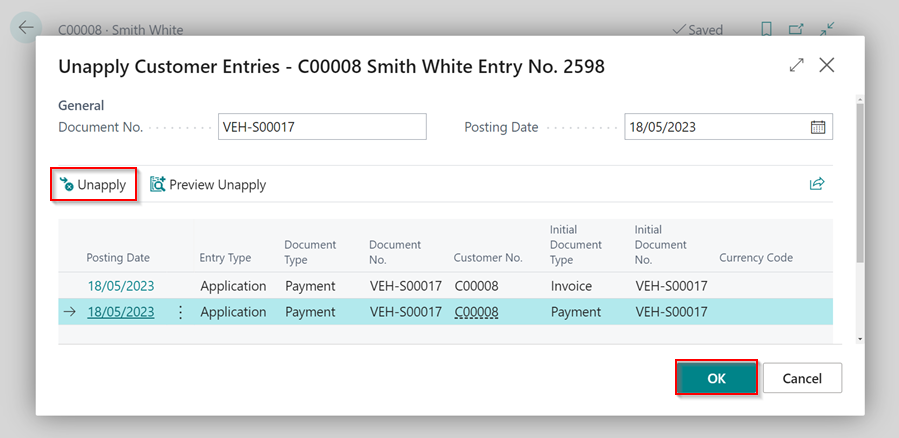
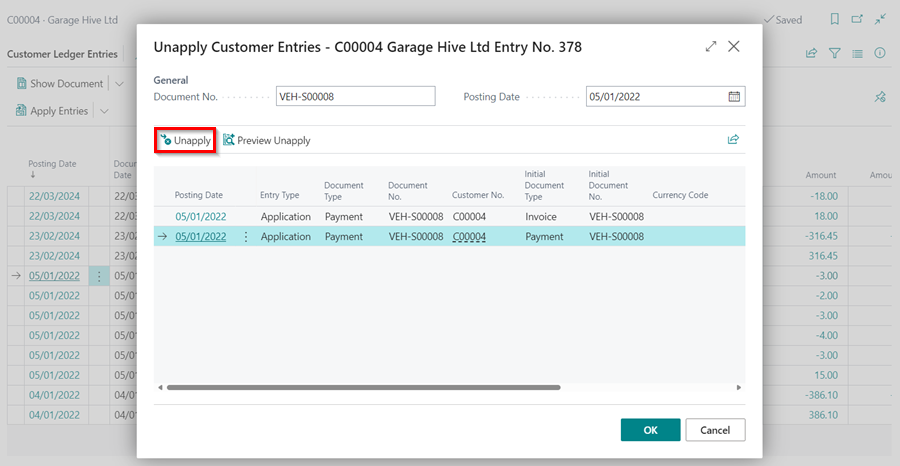
unapply and reverse entries

diff --git a/docs/garagehive-unapplying-and-reversing-transactions.md b/docs/garagehive-unapplying-and-reversing-transactions.md
@@ -10,7 +10,7 @@ You may have applied a payment to the wrong invoice, made a payment to the wrong
 1. [Un&#8211;applying transactions](#un-applying-transactions)
 2. [Reversing transactions](#reversing-transactions)
 
-### Un-applying transactions
+### Un-applying Transactions
 Un-applying payments means that you want to deallocate or unlink a transaction from a customer's invoice so that you can reallocate it to another one. To undo an applied transaction:
 1. Select the customer's list from the role centre, and then select the customer to whom the transaction was incorrectly applied.
 
@@ -20,7 +20,7 @@ Un-applying payments means that you want to deallocate or unlink a transaction f
 
    ![](media/garagehive-unapplying-and-reversing-transactions2.png)
 
-3. Select the payment that was incorrectly applied in the **Customer Ledger Entries** page, then go to the menu bar and select **Process** and then **Unapply Entries**.
+3. Select the payment that was incorrectly applied in the **Customer Ledger Entries** page, then go to the menu bar and select **Home**, and then select the **Unapply Entries** option from the split button dropdown menu under **Apply Entries**.
 
    ![](media/garagehive-unapplying-and-reversing-transactions3.png)
 
@@ -30,20 +30,23 @@ Un-applying payments means that you want to deallocate or unlink a transaction f
 
 5. You can now re-apply the entry by selecting another customer's invoice.
 
-### Reversing transactions
+### Reversing Transactions
 
 {% include tip.html title="Note" text="You can only reverse entries that are posted from journals." %}
 
 Reversing transactions means completely undoing the entry and removing it from the system. To completely reverse a transaction, use the following process:
-1. Select the customer's list from the role centre, and then select the customer to whom the transaction is applied.
-2. Select **Customer** and then **Ledger Entries** from the customer's card menu bar.
+1. Select the customer's list from the Role Centre, and then select the customer to whom the transaction is applied.
 
    ![](media/garagehive-unapplying-and-reversing-transactions5.png)
 
-3. Select the entry that you want to completely remove in the system from the **Customer Ledger Entries** page, then go to the menu bar and select **Process** and then **Reverse Transaction**.
+2. Select **Customer** and then **Ledger Entries** from the customer's card menu bar.
+
+   ![](media/garagehive-unapplying-and-reversing-transactions6.png)
+
+3. Select the entry that you want to completely remove in the system from the **Customer Ledger Entries** page, then go to the menu bar and select **Home** and then **Reverse Transaction**.
 4. Select **Reverse** from the actions menu in the **Reverse Transaction Entries** pop-up window (you can also select **Reverse and Print** to print the transaction). The transaction has now been reversed successfully.
 
-   ![](media/garagehive-unapplying-and-reversing-transactions3.gif)
+   ![](media/garagehive-unapplying-and-reversing-transactions7.png)
 
 
 <br>
